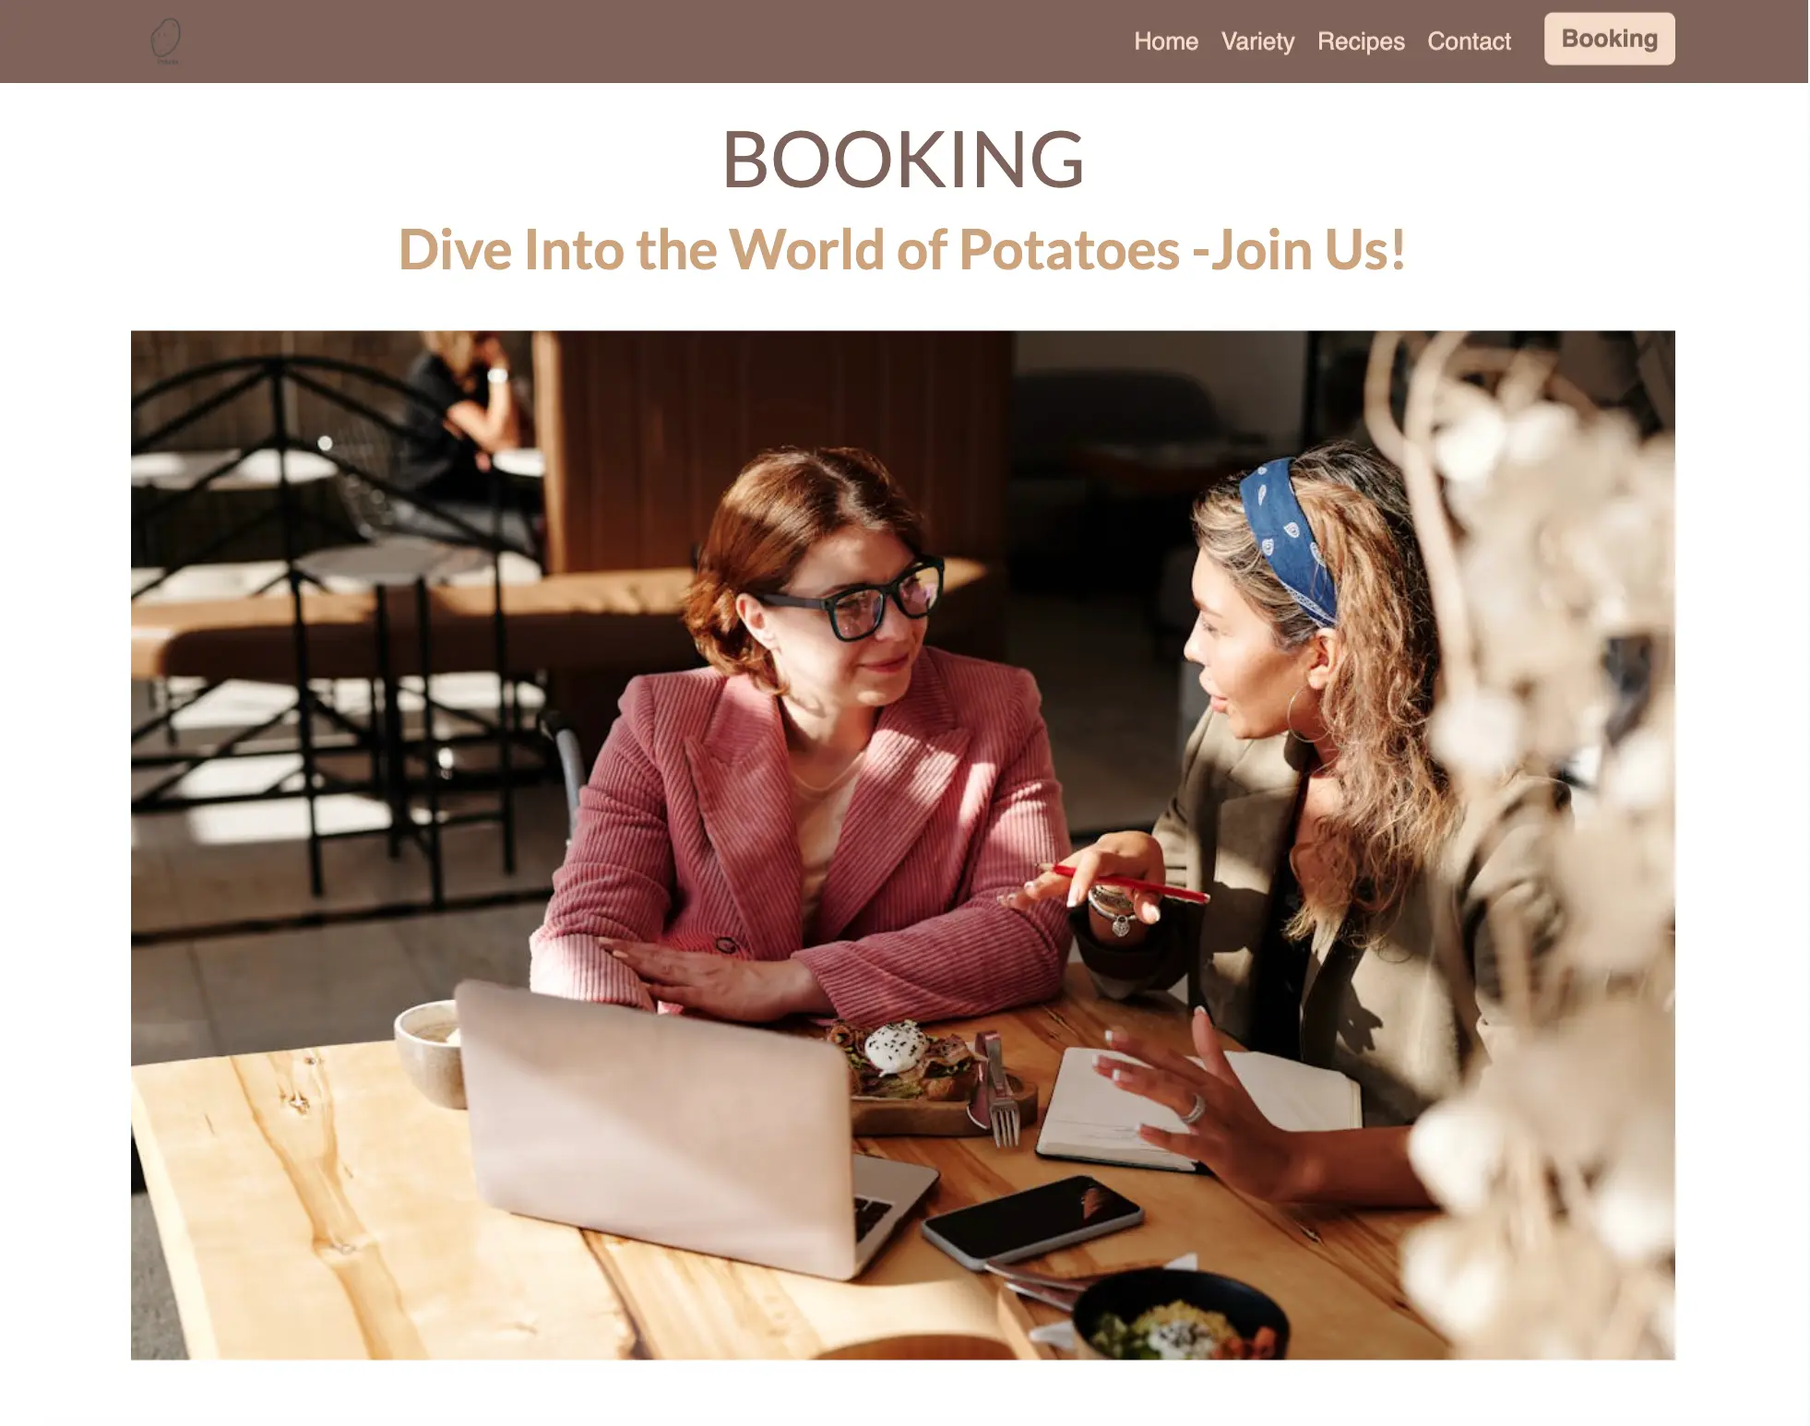
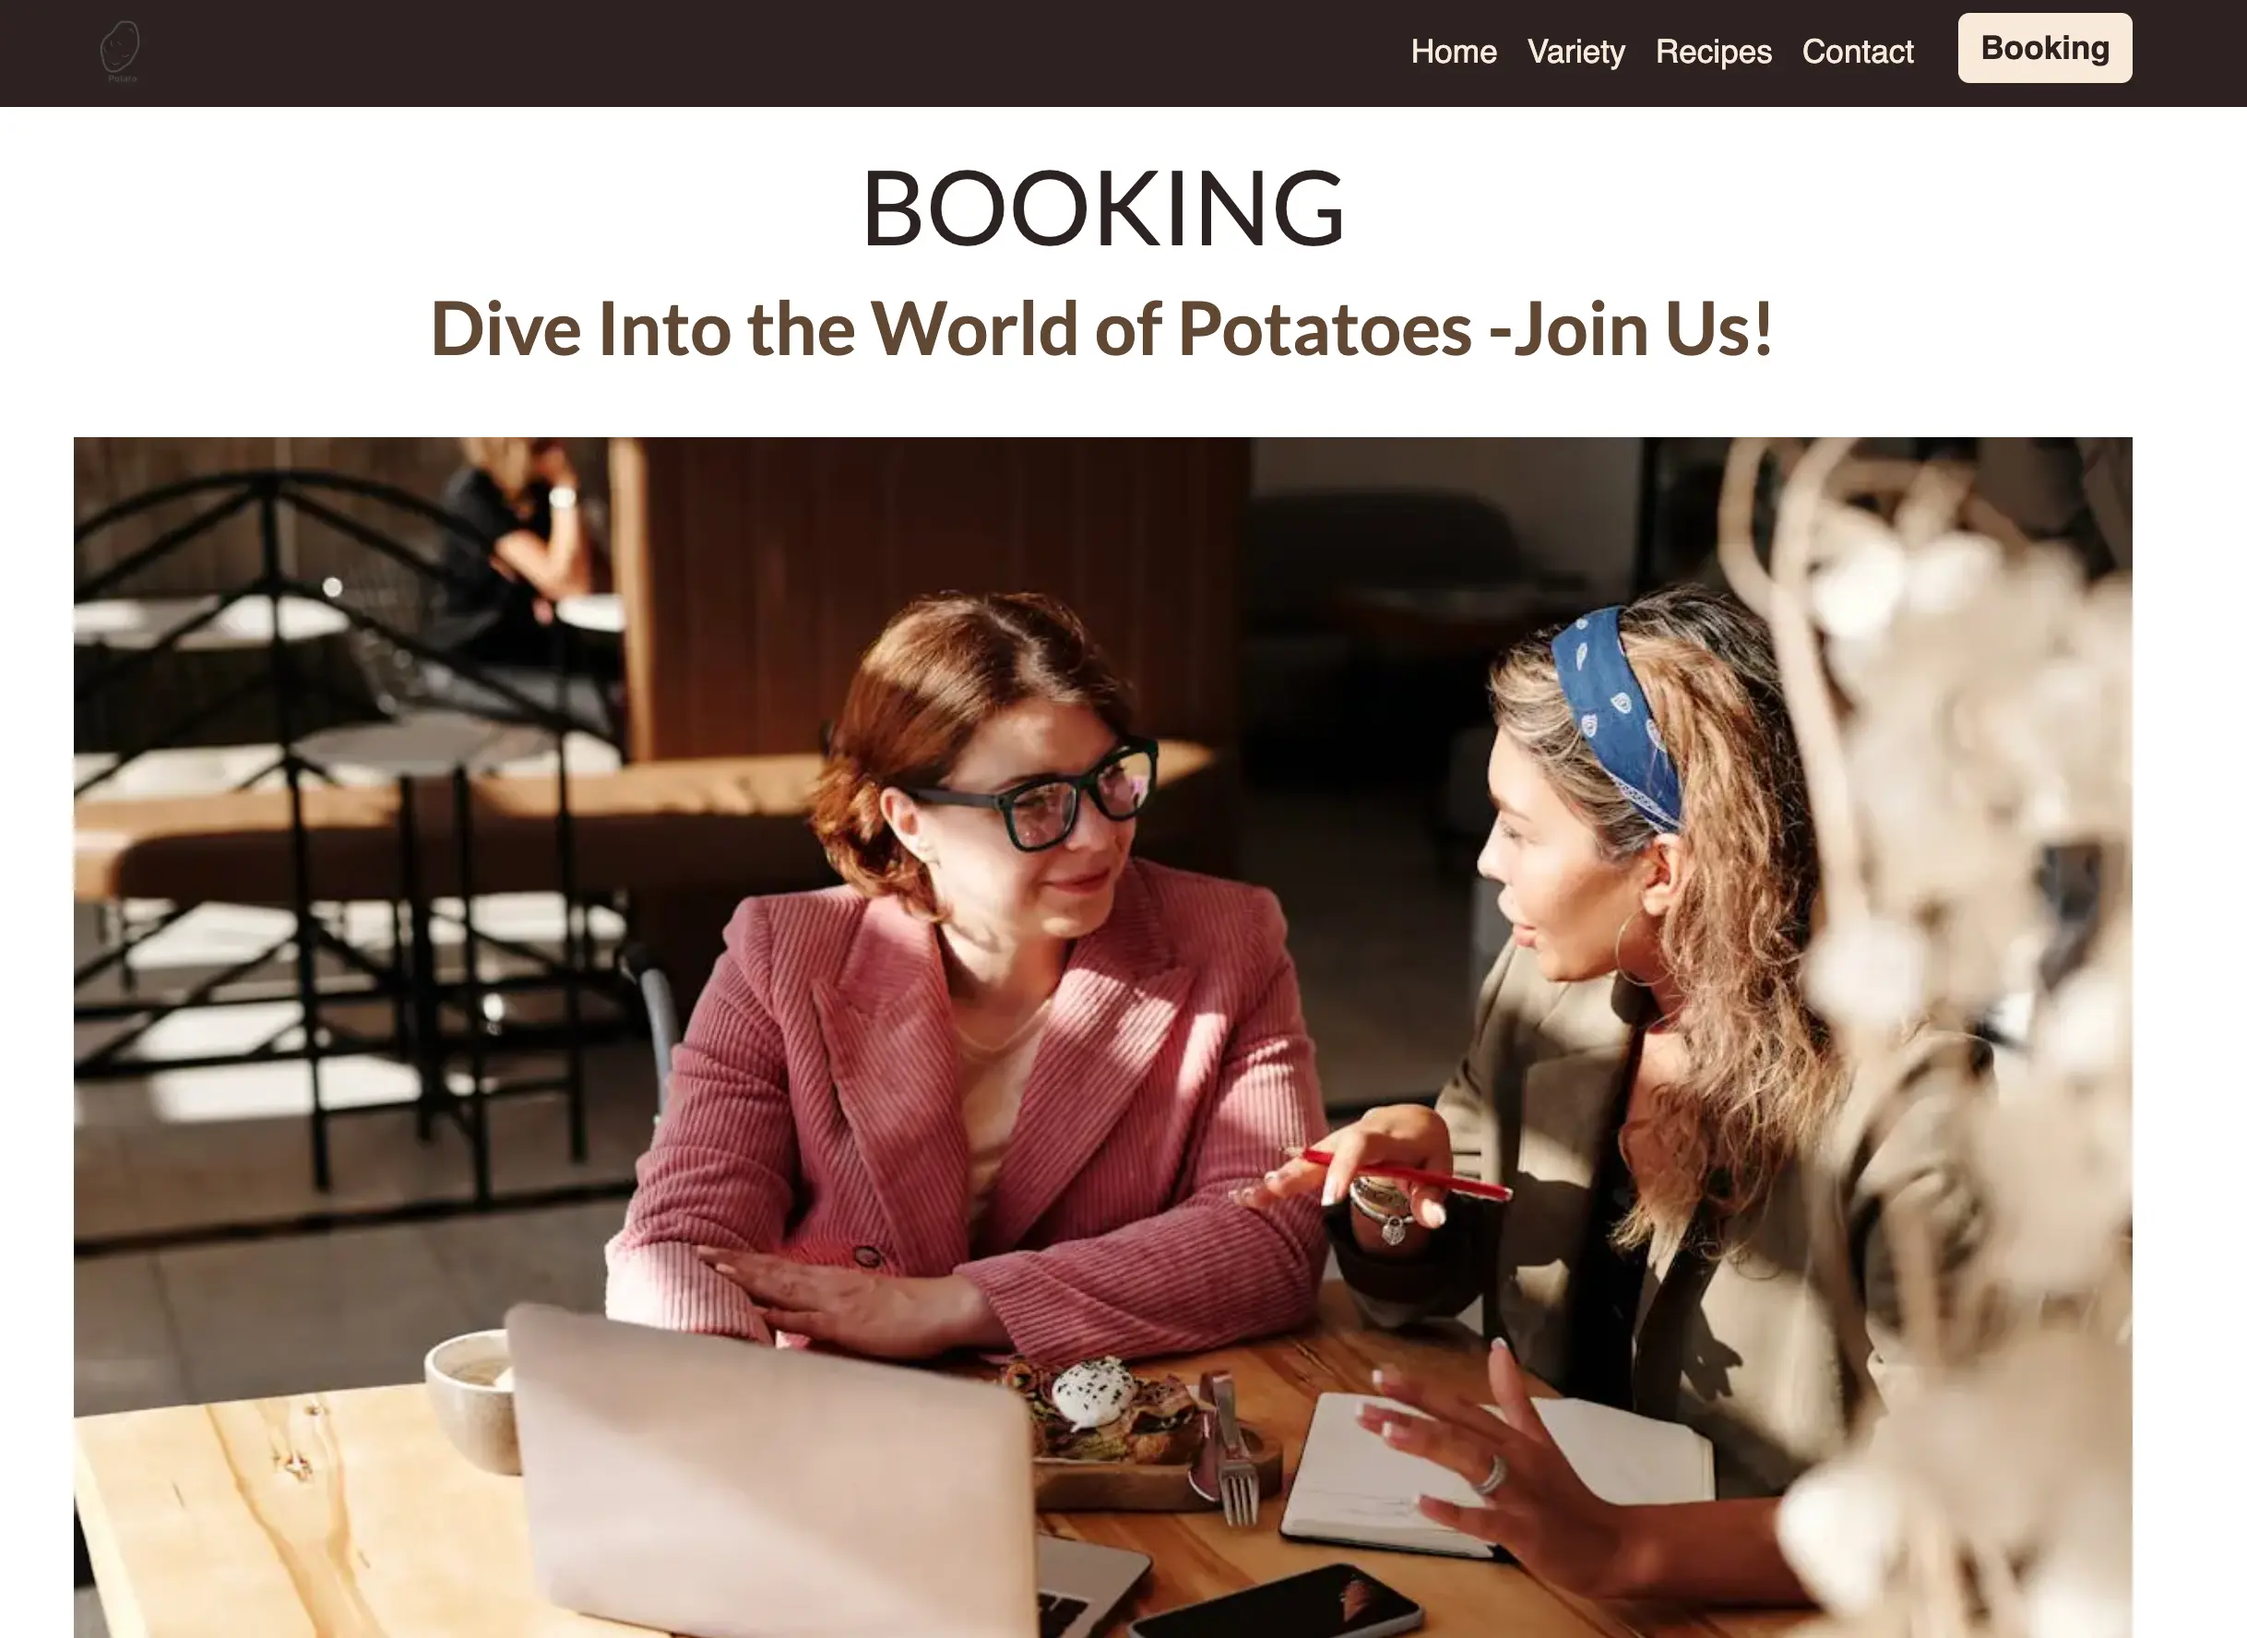
adding screenshot of lighthouse by Devtools-Google for each page

diff --git a/assets/css/style.css b/assets/css/style.css
@@ -114,14 +114,14 @@ h2.display-6 {
 p.lead.display-6.sub-heading-color {
     font-family: var(--secondary-font);
     font-weight: bold;
-    color: var(--secondary-color);
+    color: var(--contact-header-color);
     padding-bottom: 20px;
 }
 
 p.lead.display-7.sub-heading-color {
     font-family: var(--secondary-font);
     font-weight: 600;
-    color: var(--secondary-color);
+    color: var(--contact-header-color);
     padding-bottom: 0px;
 }
 
@@ -207,21 +207,6 @@ img.card-img-top {
 
 /* History ending */
 
-
-
-/* Nutritional section */
-
-#nutritional {
-    text-align: left;
-    background-color: var(--highlight-color-light);
-}
-
-#nutritional .card {
-    --bs-card-border-color: none;
-    margin-bottom: 1.5rem;
-    --bs-card-bg: none;
-}
-
 /* Variety section */
 h1.display-4#h-variety {
     font-weight: 400;
@@ -255,6 +240,19 @@ h1.display-4#h-variety {
     width: 100%;
     height: 325px;
     justify-content: center;
+}
+
+/* Nutritional section */
+
+#nutritional {
+    text-align: left;
+    background-color: var(--highlight-color-light);
+}
+
+#nutritional .card {
+    --bs-card-border-color: none;
+    margin-bottom: 1.5rem;
+    --bs-card-bg: none;
 }
 
 /*Recipes Page*/
@@ -736,7 +734,6 @@ h1.display-4#h-booking {
     font-family: var(--secondary-font);
     font-weight: 400;
     color: var(--contact-header-color);
-    );
 }
 
 #booking .fa-calendar {
@@ -905,13 +902,13 @@ footer {
     }
 
     #h-video iframe{
-        width: 100%;
+        max-width: 100%;
         height: 400px;
         justify-content: center;
     }
 
     #v-video iframe{
-        width: 100%;
+        max-width: 100%;
         height: 400px;
         justify-content: center;
     }
@@ -930,13 +927,13 @@ footer {
         }
 
         #h-video iframe{
-            width: 100%;
+            max-width: 100%;
             height: 550px;
             justify-content: center;
         }
 
         #v-video iframe{
-            width: 100%;
+            max-width: 100%;
             height: 550px;
             justify-content: center;
         }
@@ -970,14 +967,14 @@ footer {
         }
 
         #h-video iframe{
-            width: 100%;
+            max-width: 100%;
             height: 500px;
             justify-content: center;
         }
 
 
         #v-video iframe{
-            width: 100%;
+            max-width: 100%;
             height: 500px;
             justify-content: center;
         }
@@ -1019,13 +1016,13 @@ footer {
         }
 
         #h-video iframe{
-            width: 100%;
+            max-width: 100%;
             height: 550px;
             justify-content: center;
         }
 
         #v-video iframe{
-            width: 100%;
+            max-width: 100%;
             height: 550px;
             justify-content: center;
         }

diff --git a/index.html b/index.html
@@ -76,20 +76,20 @@
             <br>
             <div class="row justify-content-center">
                 <div id="h-video" class="col-12 col-xl-8 text-center">
-                    <iframe src="https://instagram.com/p/BUu-o6mjgEf/embed" title="Instagram video player"
-                        frameborder="0"
+                    <h2 class="display-6">The Peruvian Treasure</h2>
+                    <iframe src="https://instagram.com/p/BUu-o6mjgEf/embed" title="Instagram video player"           
                         allow="accelerometer; autoplay; clipboard-write; encrypted-media; gyroscope; picture-in-picture"
                         allowfullscreen></iframe>
+                    </div>
                 </div>
-            </div>
-            </div>
+                <br>
         </section>
 
         <section class="container section">
             <br>
             <div class="row justify-content-center">
                 <div class="col-12 col-md-8 col-xl-6 text-center text-xl-start">
-                    <h2 class="display-6">The Potato chronicles</h2>
+                    <h2 class="display-6 sub-heading-color">The Potato chronicles</h2>
                     <p class="lead display-7">Guide to the rich history and cultural significance of
                         one of the world's most
                         important crops -<i>the potato</i>. From his humble origins in the Andes Mountains to becoming
@@ -142,7 +142,7 @@
         <section id="history" class="container section">
             <div class="row justify-content-center">
                 <div class="col-12 text-center">
-                    <h2 class="display-6">History</h2>
+                    <h2 class="display-6 sub-heading-color">History</h2>
                 </div>
                 <div class="col-12 col-md-6  col-xl-4">
                     <div class="card">

diff --git a/variety.html b/variety.html
@@ -104,19 +104,19 @@
             <br>
             <div class="row justify-content-center">
                 <div id="v-video" class="col-12 col-xl-8 text-center">
+                    <h2 class="display-6 sub-heading-color">Natives Potatoes</h2>
                     <iframe src="https://youtube.com/embed/p9qWJ89m-hY" title="YouTube video player"
-                        frameborder="0"
                         allow="accelerometer; autoplay; clipboard-write; encrypted-media; gyroscope; picture-in-picture"
                         allowfullscreen></iframe>
                 </div>
             </div>
-            </div>
         </section>
 
         <section id="variety" class="container section">
+            <br>
             <div class="row justify-content-center">
                 <div class="col-12 text-center">
-                    <h2 class="display-6">Potatoes Variety</h2>
+                    <h2 class="display-6 sub-heading-color">Potatoes Variety</h2>
                 </div>
                 <div class="col-12 col-md-6 col-xl-3">
                     <div class="card">

diff --git a/recipes.html b/recipes.html
@@ -60,7 +60,7 @@
     <header id="header" class="container section">
         <div id="h-recipes" class="row justify-content-center">
             <h1 class="display-4 text-center">Recipes</h1>
-            <h2 class="lead display-6 text-center">Chef of the Month</h2>
+            <h2 class="lead display-6 text-center sub-heading-color">Chef of the Month</h2>
             <br>
 
             <div class="col-12 col-md-8 col-xl-6 text-center text-xl-start">
@@ -97,7 +97,7 @@
         <section id="srecipes" class="container section">
             <br>
             <div class="row justify-content-center">
-                <h2 class="display-5 text-center">Menu of the day</h2>
+                <h2 class="display-5 text-center sub-heading-color">Menu of the day</h2>
 
                 <!-- Appetizer-->
                 <div class="col-12 col-md-8 col-xxl-6">

diff --git a/booking.html b/booking.html
@@ -63,7 +63,7 @@
                 <br>
                 <h1 id="h-booking" class="display-4">Booking</h1>
                 <p class="lead display-6 sub-heading-color">Dive Into the World of Potatoes -Join Us!</p>
-                <img src="assets/images/booking/b1.jpg" alt="Meeting" class="img-fluid">
+                <img src="assets/images/booking/b1.webp" alt="Meeting" class="img-fluid">
             </div>
         </div>
         <br>

diff --git a/README.md b/README.md
@@ -116,7 +116,8 @@ The website is designed with 4 pages, with fixed top navigation and redirection 
 The website is designed to be clear and simple. And the site has a simple tree structure with hierarchical flows from top to bottom.
 
 **Wireframe**
-The wireframe is designed using Balsamiq software.
+The wireframe is designed using Balsamiq software 
+[Balsamic](https://balsamiq.cloud/s45whoh/p56wz1i/r2278)
 
 #### Home
 ![Home](assets/images/readme/wh.png)
@@ -245,7 +246,7 @@ Towards the future,
 9. [Photoshop:](https://www.adobe.com/ie/products/photoshop.html)
     - Photoshop was used to create the logo, resizing images and editing photos for the website.
 10. [Balsamiq:](https://balsamiq.com/)
-    - Balsamiq was used to create the [wireframes]("https://balsamiq.cloud/s45whoh/p56wz1i/r2278") during the design process.
+    - Balsamiq was used to create the [wireframes](https://balsamiq.cloud/s45whoh/p56wz1i/r2278) during the design process.
 11. [Responsive Screenshots](https://ui.dev/amiresponsive)
     - To able to get responsive screenshoots from different devices.
 12. [Contrast Checker](https://webaim.org/resources/linkcontrastchecker/?fcolor=CDA37C&bcolor=FFFF00)
@@ -305,7 +306,12 @@ CSS code passed through the official (Jigsaw) W3C validator with no errors.
 
   
 * **Accessibility**
-  I confirmed that the colors and fonts chosen are easy to read and accessible by running it through ![Lighthouse DevTools](assets/images/readme/lighthouse.webp)
+  * Lighthouse DevTools by Google
+
+  ![Lighthouse DevTools Home](assets/images/readme/hlh.webp)
+  ![Lighthouse DevTools Variety](assets/images/readme/vlh.webp)
+  ![Lighthouse DevTools Recipes](assets/images/readme/rlh.webp)
+  ![Lighthouse DevTools Booking](assets/images/readme/blh.webp)
 
   ### Testing User Stories from User Experience (UX) Section
 
